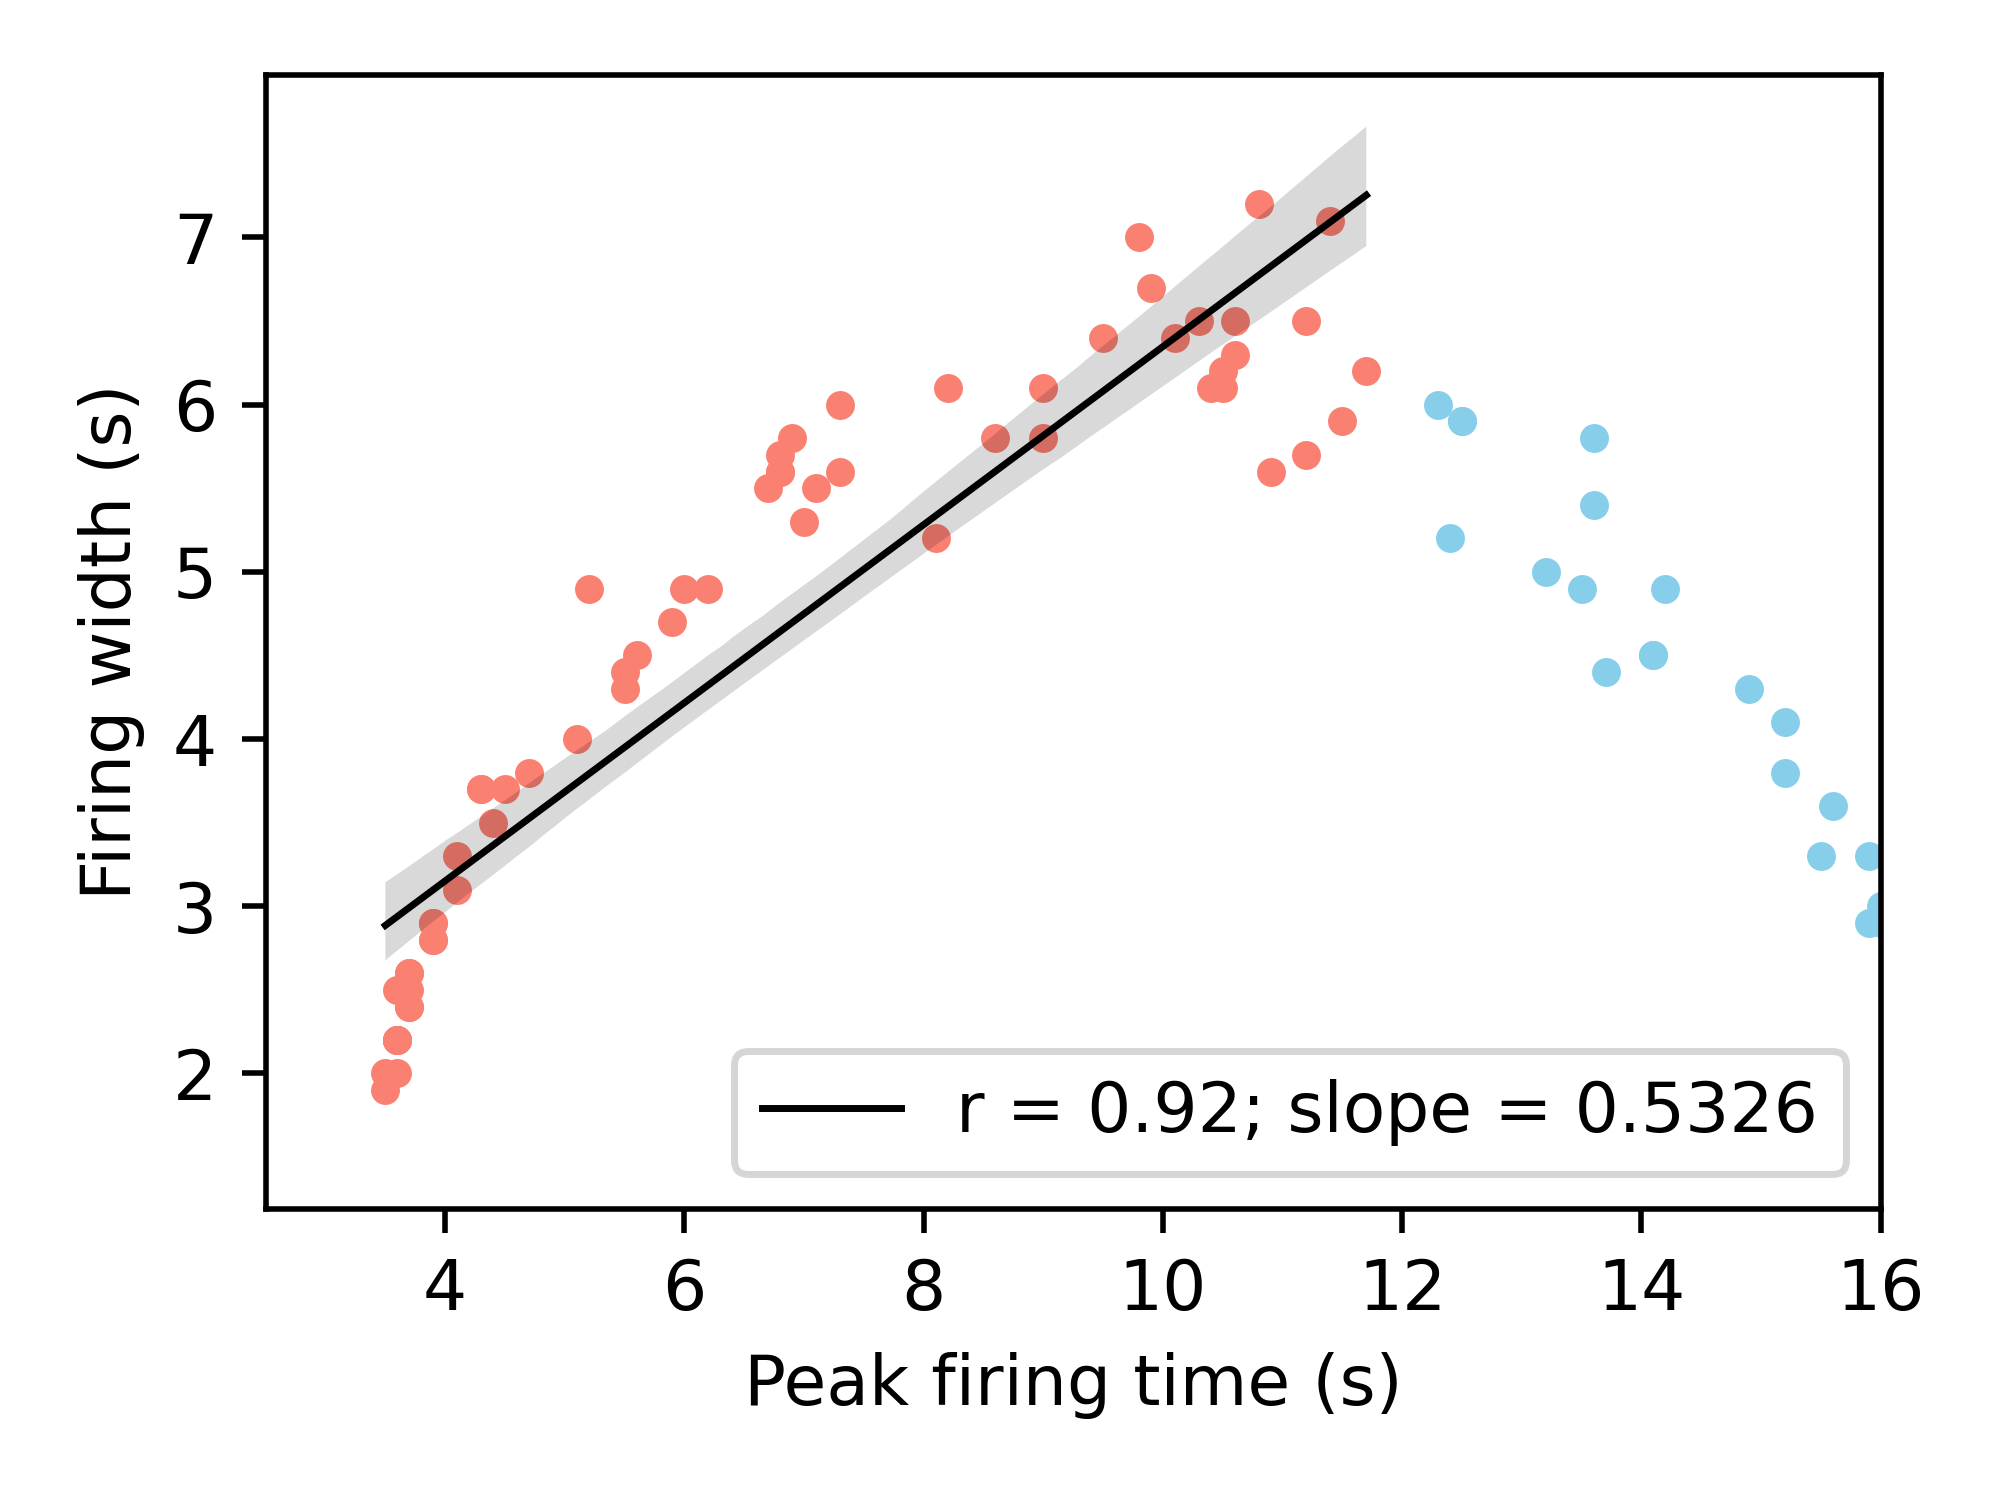
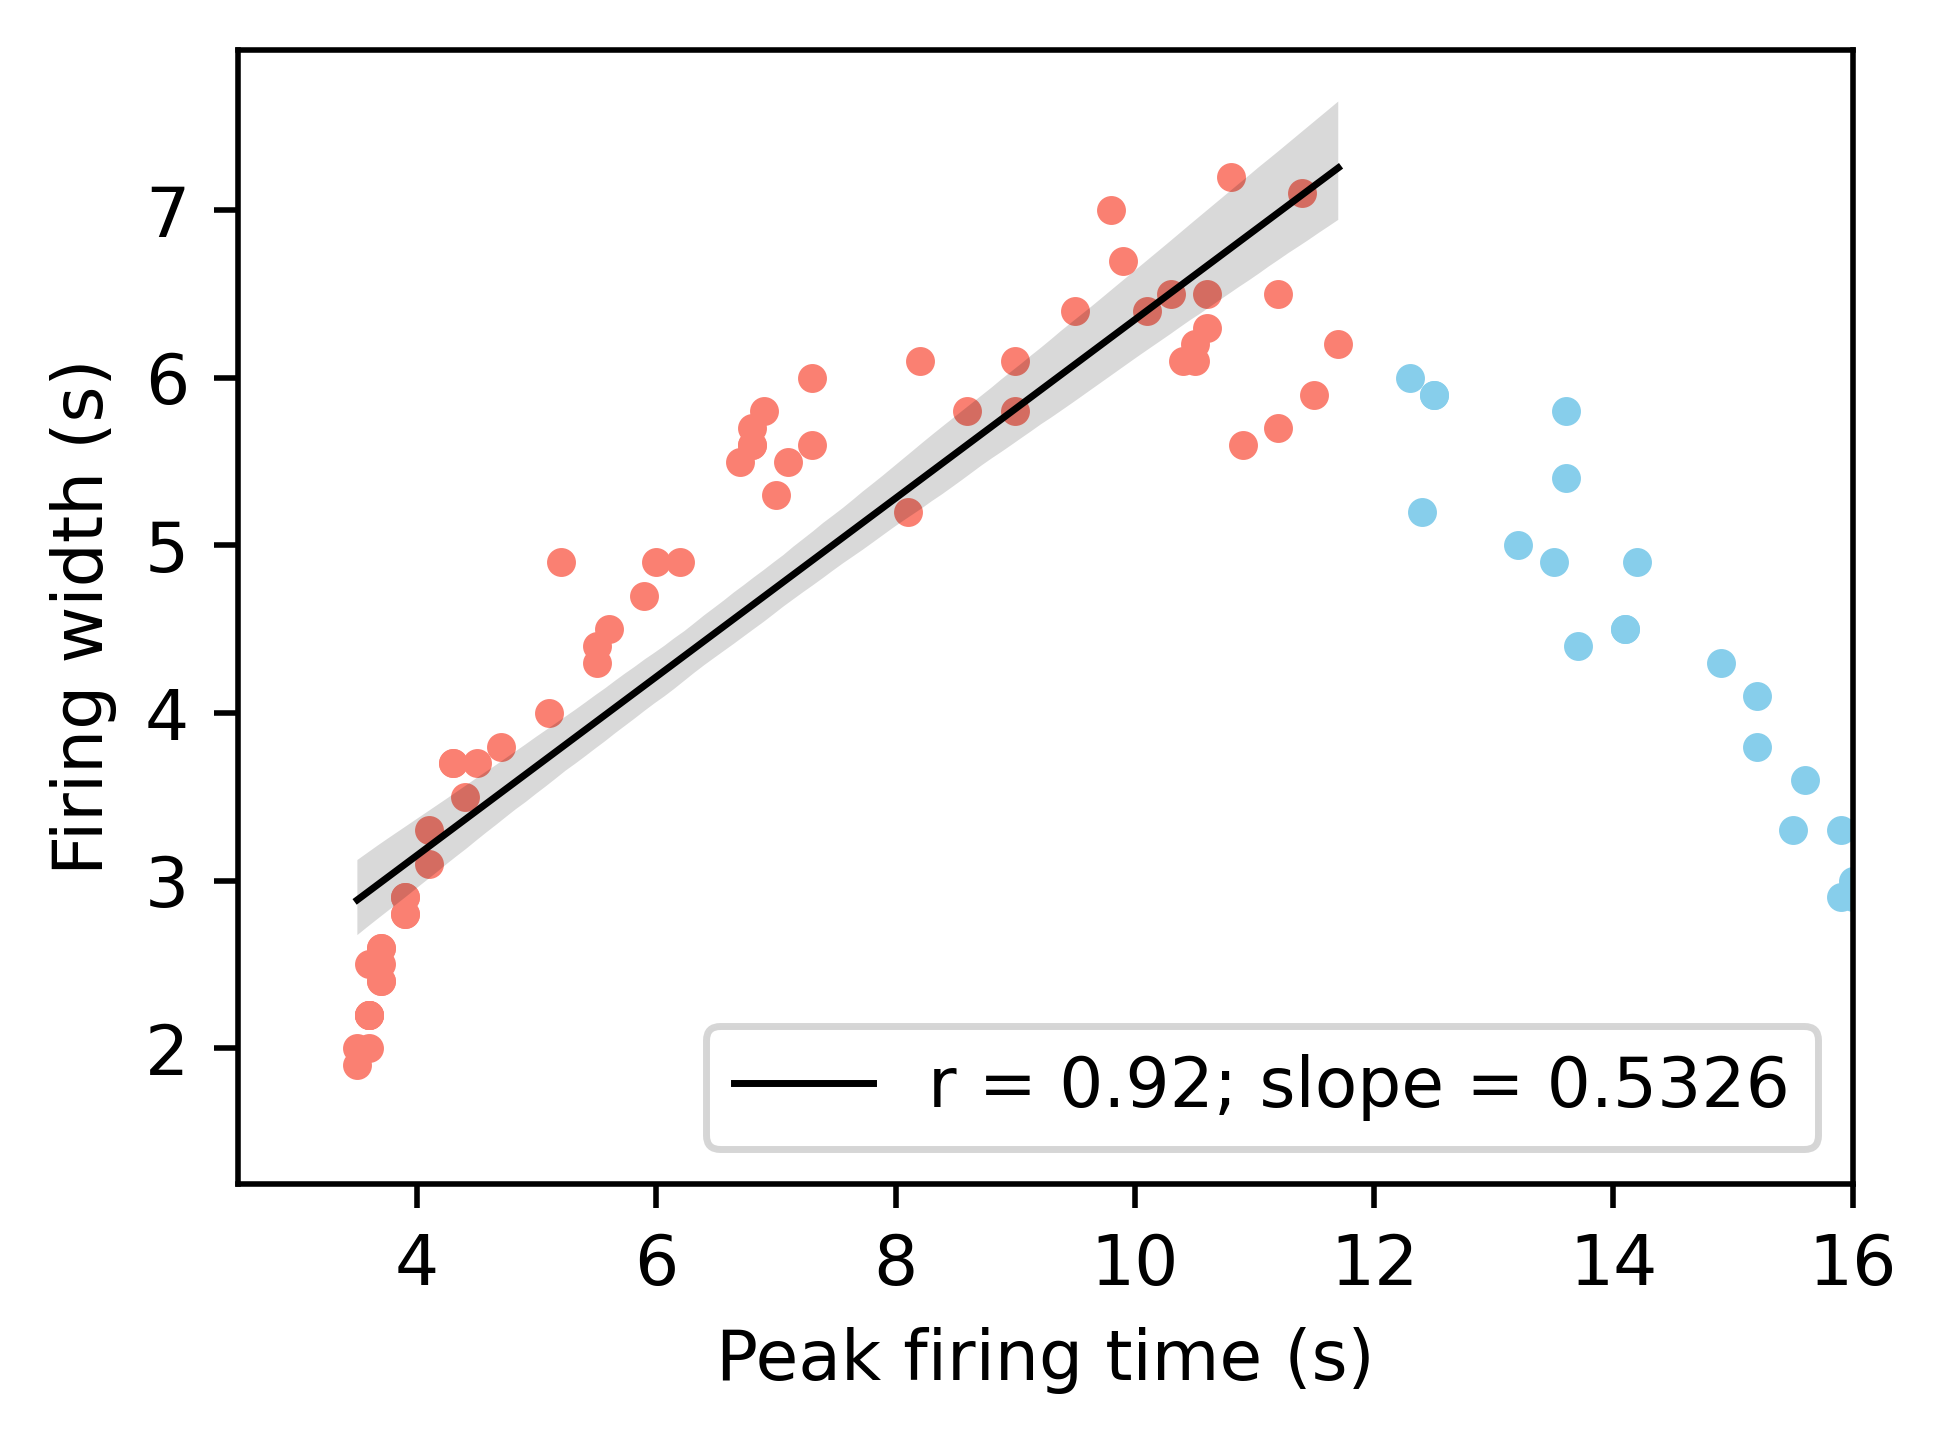
resimulate the square room

diff --git a/code/plot_place_cells.py b/code/plot_place_cells.py
@@ -18,21 +18,32 @@ parser.add_argument('--time_end',       default=-1,   type=int)
 args = parser.parse_args()
 
 
-data = np.load(f'data/{args.load_data_type}.npy', allow_pickle=True).item()
-hidden_states = data[f'{args.theory}hidden_states_{args.num_neuron}']
+# For npy file:
+# --------------------------------------------------------------------------------------------
+# data = np.load(f'data/{args.load_data_type}.npy', allow_pickle=True).item()
+# hidden_states = data[f'{args.theory}hidden_states_{args.num_neuron}']
+# select_hs = hidden_states[:, args.time_start:args.time_end, :]
+# select_coords = data['test_traj']['coords'][:, args.time_start:args.time_end, :]
+# arena_map = data['arena_map']
 
-select_hs = hidden_states[:, args.time_start:args.time_end, :]
-select_coords = data['test_traj']['coords'][:, args.time_start:args.time_end, :]
+# For npz file:
+# --------------------------------------------------------------------------------------------
+with np.load(f'data/{args.load_data_type}.npz', allow_pickle=True) as data:
+    hidden_states = data[f'{args.theory}hidden_states_{args.num_neuron}']
+    select_hs = hidden_states[:, args.time_start:args.time_end, :]
+    test_traj = data['test_traj'].item()
+    select_coords = test_traj['coords'][:, args.time_start:args.time_end, :]
+    arena_map = data['arena_map']
+
 
 # ===========================================================================================
 # Calculate the occupancy map
 # ===========================================================================================
 
-occupancy = compute_occupancy(select_coords, bins=data['arena_map'].shape)
+occupancy = compute_occupancy(select_coords, bins=arena_map.shape)
 print('Occupancy has the shape of the arena: ', occupancy.shape)
 
 # Plot the occupancy (有用)
-# --------------------------------------------------------------------------------------------
 fig, ax = plt.subplots(1, 1, figsize=(4.9, 4))
 cbar = plt.colorbar(ax.imshow(occupancy, cmap='jet', aspect='auto'), 
                     ax=ax, fraction=0.046, pad=0.04, orientation='vertical', location='left')
@@ -53,9 +64,19 @@ plt.close(fig)
 # Compute the ratemap
 # ===========================================================================================
 
-aggregator = RatemapAggregator(data['arena_map'], device='cuda')
+aggregator = RatemapAggregator(arena_map, device='cuda')
 
-aggregator.update(select_hs, select_coords)
+# For large data (npz)
+# --------------------------------------------------------------------------------------------
+select_hs = select_hs.astype(np.float16)
+select_coords = select_coords.astype(np.float16)
+for i in range(10):
+    aggregator.update(select_hs[i*100:(i+1)*100], select_coords[i*100:(i+1)*100])
+
+# For small data (npy)
+# --------------------------------------------------------------------------------------------
+# aggregator.update(select_hs, select_coords)
+
 ratemap = aggregator.get_ratemap().cpu().numpy()
 print(ratemap.shape)
 